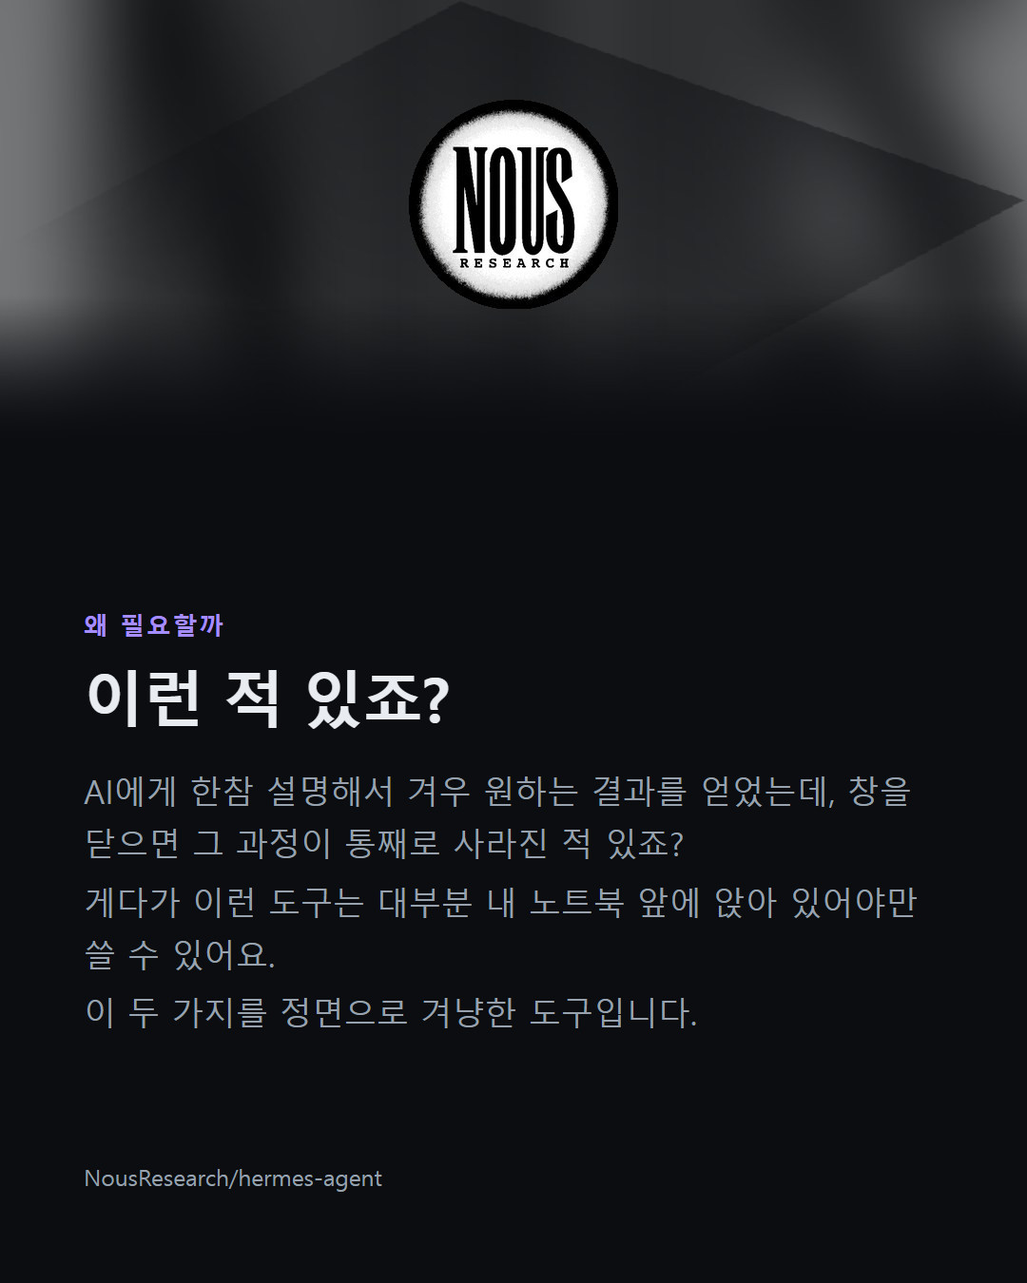
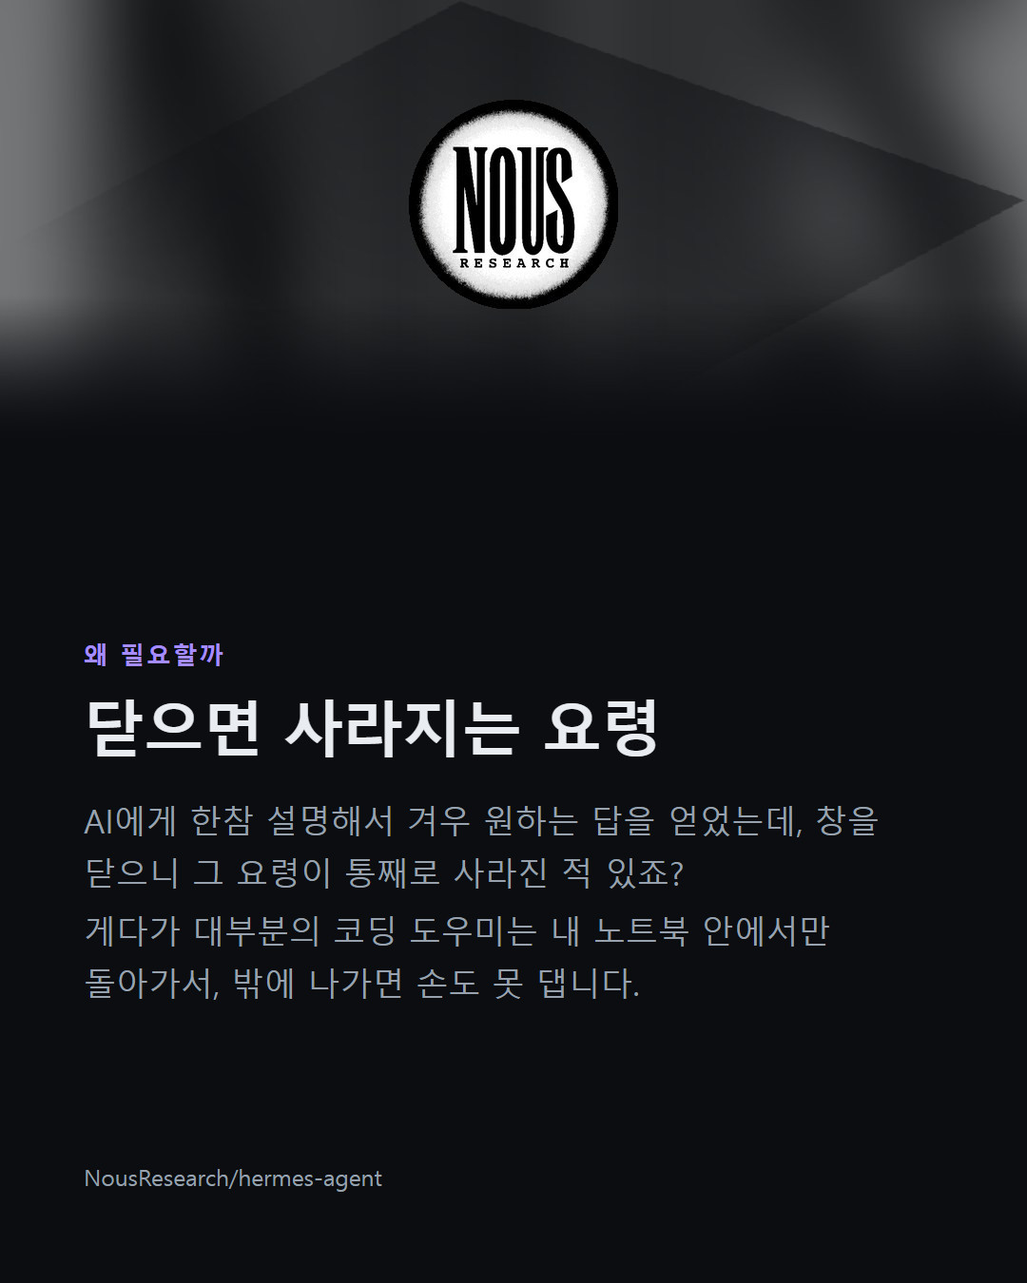
feat(design): 커버와 마무리를 간결한 구성으로 되돌림
본문 분량 하한(85자)을 전 카드에 적용하니 커버와 마무리까지 세 문장으로
불어나 원래의 간결함을 잃었다. 두 카드는 다른 규칙을 따라야 한다.

커버: 한 줄 훅, 70자 이내. 하한 면제. 별 개수는 배지가 이미 보여주므로
본문에 다시 쓰지 않게 했다. 이미지도 쓰지 않는다 — 제목과 배지가 시선을 잡는다.

마무리: 출처 → 라이선스 → 마무리 한마디. 이미지 없음.
**주소와 라이선스는 조사 데이터에서 렌더가 직접 채운다.** 주소는 한 글자만
틀려도 잘못된 정보인데 그걸 문장 생성에 맡길 이유가 없다. 모델이 쓰는 것은
마무리 한마디뿐이다.

OG 이미지는 마무리에서 what_is_it 으로 옮겼다. 레포 이름과 설명이 박힌
카드라 "이게 뭐냐"를 설명하는 자리에 더 맞는다.

NO_IMAGE 목록을 두 모듈이 각자 들고 있어 어긋날 수 있어, 일치를 테스트로
고정했다.

테스트 160개 통과.

Changed region(s): [[0.0611, 0.4667, 0.8861, 0.8089]]

diff --git a/agent/compose.py b/agent/compose.py
@@ -32,6 +32,12 @@ CAPTION_LIMIT = 2200
 MAX_JARGON_PER_CARD = 1
 MAX_JARGON_IN_CAPTION = 4
 
+# 커버와 마무리는 간결하게 간다. 커버는 훅이라 짧아야 훅이고,
+# 마무리는 주소·라이선스를 렌더가 데이터에서 자동으로 채우므로
+# 모델이 쓸 것은 마무리 한마디뿐이다.
+SHORT_ROLES = {"cover", "outro"}
+SHORT_BODY_MAX = 70
+
 SYSTEM_PROMPT = """\
 너는 인스타그램 카드뉴스의 원고를 쓴다.
 
@@ -84,7 +90,9 @@ SYSTEM_PROMPT = """\
 
 각 카드는 role 로 역할이 정해져 있다. 주어진 role 순서를 그대로 지켜라.
 
-- cover: 레포명과 한 줄 훅. 궁금하게 만들되 낚시하지 마라.
+- cover: 레포명과 **한 줄 훅**. 궁금하게 만들되 낚시하지 마라.
+  **여기만 짧게 쓴다 — 한 문장, 70자 이내.** 훅은 짧아야 훅이다.
+  별 개수는 카드가 배지로 따로 보여주니 본문에 또 쓰지 마라.
 - what_is_it: **"한마디로 뭐냐면"** — 이게 뭔지 딱 한 문장으로. 비유를 써도 좋다.
   독자가 이 카드에서 못 알아들으면 나머지는 안 읽는다. 가장 공들여라.
 - problem: 이게 없으면 뭐가 불편한지. "이런 적 있죠?" 처럼 공감으로 열어라.
@@ -96,7 +104,10 @@ SYSTEM_PROMPT = """\
   명령 두 개처럼 읽힌다. 길면 더 짧은 대표 명령을 골라라.
   body 에 이게 어디에 입력하는 건지 한마디 덧붙여라.
 - fit: 어떤 사람에게 맞고 어떤 사람에겐 아직 이른지. 단점을 숨기지 마라.
-- outro: 레포 주소와 라이선스, 그리고 행동 유도.
+- outro: **마무리 한마디만 쓴다 — 한 문장, 70자 이내.**
+  레포 주소·라이선스·언어는 카드가 조사 데이터에서 자동으로 채운다.
+  본문에 주소나 라이선스를 다시 쓰지 마라. 부담 없는 마무리면 충분하다
+  (예: "오늘은 구경만 해도 충분해요").
 
 ## 매체 제약을 절대 어기지 마라
 
@@ -244,6 +255,7 @@ def _build_prompt(
     max_code_chars: int,
     tone: str,
 ) -> str:
+    short_max = SHORT_BODY_MAX
     p = research.payload
     m = research.meta
     delta = f"+{m.delta_1d} (오늘)" if m.delta_1d is not None else "(미상)"
@@ -282,6 +294,7 @@ def _build_prompt(
 - title: {max_title}자 이하 (공백 포함)
 - body: **{min_body}~{max_body}자** (공백 포함). 2~3문장으로 채운다.
   한 문장으로 끝내지 마라 — 카드가 휑해 보이고 설명도 부족하다.
+  **단 cover 와 outro 는 예외다. 한 문장, {short_max}자 이내로 간결하게.**
 - code 는 quickstart 카드에만. {max_code_lines}줄 이하, 줄당 {max_code_chars}자 이하
   각 줄은 그 자체로 완전한 명령이어야 한다. 한 명령을 쪼개지 마라.
 - caption: {CAPTION_LIMIT}자 이하, 해시태그 미포함
@@ -414,11 +427,18 @@ def _validate(
             problems.append(
                 f"{where} title 이 {len(card.title)}자입니다 ({max_title}자 이하로 줄이세요): \"{card.title}\""
             )
-        if len(card.body) > max_body:
+        if expected_role in SHORT_ROLES:
+            # 간결해야 하는 카드. 하한은 적용하지 않는다.
+            if len(card.body) > SHORT_BODY_MAX:
+                problems.append(
+                    f"{where} body 가 {len(card.body)}자입니다. 이 카드는 간결해야 하니 "
+                    f"한 문장, {SHORT_BODY_MAX}자 이내로 줄이세요."
+                )
+        elif len(card.body) > max_body:
             problems.append(
                 f"{where} body 가 {len(card.body)}자입니다 ({max_body}자 이하로 줄이세요)."
             )
-        elif min_body and expected_role != "cover" and 0 < len(card.body) < min_body:
+        elif min_body and 0 < len(card.body) < min_body:
             problems.append(
                 f"{where} body 가 {len(card.body)}자로 너무 짧습니다 "
                 f"({min_body}자 이상, 2~3문장). 한 문장으로 끝내지 마세요."

diff --git a/agent/render.py b/agent/render.py
@@ -115,6 +115,7 @@ def run(config: Config, run_date: str, dry_run: bool = False) -> dict[str, Any]:
     font_uri = _font_data_uri()
 
     star_badge = _star_badge(deck)
+    outro_facts = _outro_facts(deck)
     _attach_images(cards, post_dir)
     cards_dir = post_dir / "cards"
     warnings: list[str] = []
@@ -143,6 +144,7 @@ def run(config: Config, run_date: str, dry_run: bool = False) -> dict[str, Any]:
                     height=height,
                     total=len(cards),
                     star_badge=star_badge,
+                    outro=outro_facts,
                 )
                 if overflow_by > 0:
                     msg = (
@@ -201,6 +203,7 @@ def _render_card(
     height: int,
     total: int,
     star_badge: str,
+    outro: dict[str, str],
 ) -> tuple[bytes, float, int]:
     """오버플로가 없어질 때까지 축소하며 렌더한다. (PNG, 배율, 남은초과px)"""
     last_over = 0
@@ -217,6 +220,7 @@ def _render_card(
             eyebrow=eyebrow_for(card.role, card.title),
             body_sentences=split_sentences(card.body),
             star_badge=star_badge,
+            outro=outro,
         )
         page.set_content(html, wait_until="load")
         page.evaluate("() => document.fonts.ready")
@@ -265,6 +269,9 @@ def _tokens_from_figma() -> bool:
     return (paths.ROOT / "design" / "tokens.json").exists()
 
 
+# imagery.NO_IMAGE 와 같은 값. 순환 임포트를 피해 여기에 둔다.
+NO_IMAGE_ROLES = {"cover", "outro"}
+
 IMAGE_SUFFIXES = (".jpg", ".jpeg", ".png", ".webp")
 IMAGE_MIME = {".jpg": "image/jpeg", ".jpeg": "image/jpeg", ".png": "image/png", ".webp": "image/webp"}
 
@@ -279,8 +286,8 @@ def _attach_images(cards: list[Card], post_dir: Path) -> None:
     """
     images_dir = post_dir / "images"
     for card in cards:
-        if card.role == "cover":
-            card.image = None  # 커버는 이미지 없이 간다 (디자인 결정)
+        if card.role in NO_IMAGE_ROLES:
+            card.image = None  # 간결해야 하는 카드는 이미지를 쓰지 않는다
             continue
         for suffix in IMAGE_SUFFIXES:
             candidate = images_dir / f"{card.index:02d}{suffix}"
@@ -318,6 +325,22 @@ def _load_deck(run_date: str) -> tuple[CardDeckFile, Path]:
         )
     path = matches[0]
     return CardDeckFile.model_validate(paths.read_json(path)), path.parent
+
+
+def _outro_facts(deck: CardDeckFile) -> dict[str, str]:
+    """마무리 카드에 넣을 출처·라이선스.
+
+    모델에게 시키지 않고 조사 데이터에서 직접 채운다. 주소나 라이선스는
+    한 글자만 틀려도 잘못된 정보이고, 그건 문장 생성에 맡길 일이 아니다.
+    """
+    research = _find_research(deck) or {}
+    meta = research.get("meta", {})
+    url = (meta.get("html_url") or "").replace("https://", "").replace("http://", "")
+    parts = [p for p in (meta.get("license"), meta.get("language")) if p]
+    return {
+        "url": url or f"github.com/{deck.repo}",
+        "meta": " · ".join(parts),
+    }
 
 
 def _star_badge(deck: CardDeckFile) -> str:

diff --git a/tests/test_render.py b/tests/test_render.py
@@ -236,3 +236,59 @@ class TestSentenceSplitting:
     def test_trailing_sentence_without_period_survives(self):
         out = render_mod.split_sentences("첫 문장입니다. 마침표 없는 끝")
         assert out == ["첫 문장입니다.", "마침표 없는 끝"]
+
+
+class TestConciseCards:
+    """커버와 마무리는 간결해야 한다. 나머지 카드와 다른 규칙을 따른다."""
+
+    def test_cover_and_outro_get_no_image(self, tmp_path):
+        images = tmp_path / "images"
+        images.mkdir()
+        for name in ("01.png", "10.png", "04.png"):
+            Image.new("RGB", (8, 8)).save(images / name)
+
+        cards = [
+            Card(index=1, role="cover", title="레포"),
+            Card(index=4, role="feature", title="기능"),
+            Card(index=10, role="outro", title="정리하면"),
+        ]
+        render_mod._attach_images(cards, tmp_path)
+        assert cards[0].image is None
+        assert cards[1].image is not None   # 일반 카드는 붙는다
+        assert cards[2].image is None
+
+    def test_no_image_roles_match_imagery(self):
+        """두 모듈이 각자 목록을 들면 언젠가 어긋난다."""
+        from agent import imagery
+        assert render_mod.NO_IMAGE_ROLES == imagery.NO_IMAGE
+
+
+class TestOutroFacts:
+    """주소·라이선스는 한 글자만 틀려도 잘못된 정보다. 문장 생성에 맡기지 않는다."""
+
+    def _deck(self):
+        return _deck([Card(index=1, role="outro", title="정리하면")])
+
+    def test_strips_scheme_from_url(self, tmp_path, monkeypatch):
+        monkeypatch.setattr(
+            render_mod, "_find_research",
+            lambda d: {"meta": {"html_url": "https://github.com/acme/widget",
+                                "license": "MIT", "language": "Python"}},
+        )
+        facts = render_mod._outro_facts(self._deck())
+        assert facts["url"] == "github.com/acme/widget"
+        assert facts["meta"] == "MIT · Python"
+
+    def test_falls_back_to_repo_when_research_missing(self, monkeypatch):
+        monkeypatch.setattr(render_mod, "_find_research", lambda d: None)
+        facts = render_mod._outro_facts(self._deck())
+        assert facts["url"] == "github.com/acme/widget"
+        assert facts["meta"] == ""
+
+    def test_omits_missing_license_or_language(self, monkeypatch):
+        monkeypatch.setattr(
+            render_mod, "_find_research",
+            lambda d: {"meta": {"html_url": "https://github.com/acme/widget",
+                                "license": None, "language": "Rust"}},
+        )
+        assert render_mod._outro_facts(self._deck())["meta"] == "Rust"

diff --git a/tests/test_imagery.py b/tests/test_imagery.py
@@ -19,8 +19,8 @@ from agent import imagery  # noqa: E402
 
 def _deck() -> CardDeckFile:
     roles = [
-        "cover", "problem", "why_now", "feature", "feature",
-        "feature", "architecture", "quickstart", "fit", "outro",
+        "cover", "what_is_it", "problem", "why_now", "feature",
+        "feature", "feature", "quickstart", "fit", "outro",
     ]
     return CardDeckFile(
         repo="acme/widget",
@@ -92,25 +92,32 @@ class TestComposition:
 
 
 class TestRoleMapping:
-    def test_cover_gets_no_image(self, fake_sources, tmp_path):
+    def test_concise_cards_get_no_image(self, fake_sources, tmp_path):
+        """커버와 마무리는 간결해야 하는 카드다."""
         result = imagery.run(_deck(), tmp_path)
-        assert 1 not in [i["index"] for i in result["images"]]
+        indexes = [i["index"] for i in result["images"]]
+        assert 1 not in indexes and 10 not in indexes
         assert not (tmp_path / "images" / "01.jpg").exists()
+        assert not (tmp_path / "images" / "10.jpg").exists()
 
-    def test_outro_uses_the_og_card(self, fake_sources, tmp_path):
+    def test_what_is_it_uses_the_og_card(self, fake_sources, tmp_path):
+        """레포 이름·설명이 박힌 카드라 '이게 뭐냐'에 어울린다."""
         result = imagery.run(_deck(), tmp_path)
-        outro = next(i for i in result["images"] if i["role"] == "outro")
-        assert outro["source"] == "og"
+        card = next(i for i in result["images"] if i["role"] == "what_is_it")
+        assert card["source"] == "og"
 
     def test_other_roles_use_the_avatar(self, fake_sources, tmp_path):
         result = imagery.run(_deck(), tmp_path)
-        others = [i for i in result["images"] if i["role"] not in ("outro", "cover")]
+        others = [
+            i for i in result["images"]
+            if i["role"] not in ("what_is_it", "cover", "outro")
+        ]
         assert others and all(i["source"] == "avatar" for i in others)
 
-    def test_writes_one_file_per_card_except_cover(self, fake_sources, tmp_path):
+    def test_writes_one_file_per_card_except_concise_ones(self, fake_sources, tmp_path):
         imagery.run(_deck(), tmp_path)
         written = sorted(p.name for p in (tmp_path / "images").glob("*.jpg"))
-        assert written == [f"{i:02d}.jpg" for i in range(2, 11)]
+        assert written == [f"{i:02d}.jpg" for i in range(2, 10)]
 
     def test_dry_run_writes_nothing(self, fake_sources, tmp_path):
         result = imagery.run(_deck(), tmp_path, dry_run=True)

diff --git a/agent/imagery.py b/agent/imagery.py
@@ -7,11 +7,13 @@
 - OG 이미지 (`opengraph.githubassets.com`) — GitHub 이 임베드용으로 만들어 제공
 - 소유자 아바타 (`github.com/{owner}.png`)
 
-같은 OG 이미지를 8장에 반복하면 캐러셀이 단조로워지므로 역할별로 다르게 쓴다:
-- outro : OG 이미지 그대로 (레포 카드 자체가 마무리에 어울린다)
-- 그 외 : 아바타를 크게 흐린 색면 + 선명한 아바타를 얹은 조합.
-          카드 번호에 따라 그라디언트 방향을 바꿔 같은 그림이 반복되지 않게 한다.
-- cover : 이미지를 쓰지 않는다 (제목과 배지가 이미 시선을 잡는다)
+같은 OG 이미지를 여러 장에 반복하면 캐러셀이 단조로워지므로 역할별로 다르게 쓴다:
+- what_is_it : OG 이미지 (레포 이름·설명이 박힌 카드라 "이게 뭐냐"에 어울린다)
+- 그 외      : 아바타를 크게 흐린 색면 + 선명한 아바타를 얹은 조합.
+               카드 번호에 따라 음영 방향을 바꿔 같은 그림이 반복되지 않게 한다.
+- cover, outro : 이미지를 쓰지 않는다. 둘은 간결해야 하는 카드다 —
+                 커버는 제목과 배지가 시선을 잡고, 마무리는 출처·라이선스·
+                 한마디만 남긴다.
 """
 
 from __future__ import annotations
@@ -35,10 +37,10 @@ USER_AGENT = "gh-cardnews-agent (+https://github.com/)"
 OG_URL = "https://opengraph.githubassets.com/1/{repo}"
 AVATAR_URL = "https://github.com/{owner}.png?size=460"
 
-# 이미지를 쓰지 않는 역할
-NO_IMAGE = {"cover"}
+# 이미지를 쓰지 않는 역할 — 간결해야 하는 카드들
+NO_IMAGE = {"cover", "outro"}
 # OG 이미지를 쓰는 역할
-OG_ROLES = {"outro"}
+OG_ROLES = {"what_is_it"}
 
 
 class ImageryError(RuntimeError):

diff --git a/SPEC.md b/SPEC.md
@@ -1,6 +1,6 @@
 # GitHub 핫 레포 → 인스타그램 카드뉴스 자동화 에이전트 기능명세서
 
-- 문서 버전: v2.1
+- 문서 버전: v2.2
 - 작성일: 2026-08-23
 - 상태: M1·M2·M3 구현 완료, M4·M5 미착수
 - 변경: v1.1 — 카드 디자인 원본을 피그마로 두는 `design-sync` 흐름 추가 (7.1, 7.2)
@@ -14,6 +14,7 @@
 - 변경: v1.9 — API 자동 발행 취소, 수동 발행으로 전환 (M5 폐기, Pages·토큰 갱신·워크플로 B/C 제거)
 - 변경: v2.0 — 타겟 독자를 입문자로 변경 (톤 재정의, architecture 카드 제거·what_is_it 추가, 난이도 게이트 신설)
 - 변경: v2.1 — 본문을 문장 단위로 줄바꿈, 분량 하한(85자·2~3문장) 도입
+- 변경: v2.2 — 커버·마무리를 간결한 구성으로 복귀 (이미지 제외, 70자 상한, 출처·라이선스 자동 채움)
 
 ---
 
@@ -419,7 +420,7 @@ options = ClaudeAgentOptions(
 
 | # | 역할 | 담기는 것 | 출처 필드 |
 |---|---|---|---|
-| 1 | 커버 | 레포명, 한 줄 훅, ⭐ 증가량 | `one_liner`, `meta` |
+| 1 | 커버 | 레포명, **한 줄 훅(70자 이내)**, ⭐ 증가량. 이미지 없음 | `one_liner`, `meta` |
 | 2 | **한마디로 뭐냐면** | 이게 뭔지 딱 한 문장. 비유 허용 | `one_liner` |
 | 3 | 문제 정의 | "이런 적 있죠?" 공감으로 열기 | `problem` |
 | 4 | 왜 지금 뜨나 | 급증 수치 + 계기, 감이 오게 | `why_now` |
@@ -428,7 +429,7 @@ options = ClaudeAgentOptions(
 | 7 | 이런 걸 해요 ③ | | `key_features[2]` |
 | 8 | 직접 써보려면 | 설치·실행 커맨드 + 어디에 입력하는지 | `quickstart` |
 | 9 | 나한테 맞을까 | 적합·부적합 케이스 | `differentiators`, `limitations` |
-| 10 | 마무리 | 레포 URL, 라이선스, CTA | `meta` |
+| 10 | 마무리 | **출처 → 라이선스 → 마무리 한마디.** 이미지 없음 | `meta` (자동) |
 
 **`architecture` 카드는 뺐다.** 입문자에게 "어떻게 동작하나"를 90자로 설명하면
 정확하거나 쉽거나 둘 중 하나를 반드시 포기하게 된다. 그 자리에 **"한마디로 뭐냐면"**
@@ -467,6 +468,7 @@ options = ClaudeAgentOptions(
 |---|---|---|
 | 카드 제목 | 24자 | 1080px 폭에서 2줄 이내 |
 | 카드 본문 | **85~150자** | 2~3문장. 하한이 없으면 한 문장으로 끝나 카드가 휑해진다 |
+| 커버·마무리 본문 | **70자 이내** | 이 둘은 간결해야 한다. 하한을 적용하지 않는다 |
 | 코드 블록(카드 8) | 3줄, 줄당 52자 | 27px 모노스페이스 실측. 42자는 과하게 좁아 모델이 URL 을 잘랐다 |
 | 캡션 전체 | 2,200자 | 인스타그램 캡션 제한 |
 | 해시태그 | 30개 | 인스타그램 제한 |
@@ -608,13 +610,15 @@ python -m agent design-sync
 
 - **레포의 README 스크린샷·로고를 가져다 쓰지 않는다.** 저작권이 레포 소유자에게 있고, 라이선스가 코드만 다루는 경우가 많아 이미지 재배포는 별개 문제다.
 - 카드 상단 이미지는 **GitHub 이 제공하는 자산만** 쓴다(`illustrate` 단계).
-  - `opengraph.githubassets.com` OG 이미지 — GitHub 이 임베드용으로 만들어 제공한다. `outro` 카드에 쓴다.
+  - `opengraph.githubassets.com` OG 이미지 — GitHub 이 임베드용으로 만들어 제공한다. `what_is_it` 카드에 쓴다.
   - `github.com/{owner}.png` 소유자 아바타 — 나머지 카드에 쓴다.
   - 둘 다 밝기를 눌러 다크 카드에 녹인다. OG 는 흰 배경이라 그대로 얹으면 위아래가 다른 디자인처럼 따로 논다.
   - **카드 번호마다 방향이 도는 음영을 얹어 변주를 준다.** 잘라내는 위치만 옮기는 방식은 흑백 로고 아바타에서 아무 효과가 없었다.
 - 코드 스니펫은 설치 커맨드 수준의 짧은 인용으로 제한하고, 카드 10에 라이선스를 표기한다.
 - **페이지 인디케이터는 쓰지 않는다.** 인스타그램이 캐러셀 위치를 자체 UI 로 이미 보여주므로 중복이고, 카드 하단 공간만 잡아먹는다.
 - **카드 상단 470px 은 이미지 영역이다.** 커버는 예외로 이미지를 쓰지 않는다(제목과 배지가 이미 시선을 잡는다). 이미지 아래는 배경색 그라디언트로 녹여 본문과 잇는다.
+- **커버와 마무리는 이미지를 쓰지 않는다.** 커버는 제목과 배지가 이미 시선을 잡고, 마무리는 출처·라이선스·한마디만 남는 카드다. 둘 다 여백이 정보다.
+- **마무리 카드의 출처·라이선스는 조사 데이터에서 자동으로 채운다.** 주소는 한 글자만 틀려도 잘못된 정보이고, 그건 문장 생성에 맡길 일이 아니다. 모델은 마무리 한마디만 쓴다.
 - **이미지가 없으면 그 영역을 아예 그리지 않는다.** 피그마 템플릿의 "여기에 이미지가 삽입됩니다" 점선 박스는 어디에 무엇이 들어가는지 알려주는 설명이지 렌더 결과물이 아니다. 자리표시자가 그대로 발행되면 안 된다.
 
 ### 7.6 오버플로 처리

diff --git a/posts/2026-08-23-nousresearch__hermes-agent/caption.md b/posts/2026-08-23-nousresearch__hermes-agent/caption.md
@@ -1,14 +1,15 @@
-터미널에서도 메신저에서도 같은 AI 비서를 부르는 도구, hermes-agent를 소개합니다.
+쓸수록 요령이 쌓이는 AI 비서, hermes-agent 🧠
 
-가장 큰 특징은 '배운 걸 기억한다'는 점이에요. 일을 하면서 얻은 요령을 스스로 적어두고, 다음에 비슷한 일이 오면 다시 꺼내 씁니다. 지난 대화를 찾아보는 기능도 있어요. 실제로 기억을 관리하는 코드가 따로 큼직하게 들어가 있습니다(다만 그 성능이 얼마나 좋은지까지는 확인하지 못했어요).
+한참 설명해서 겨우 원하는 답을 얻었는데 창을 닫으면 다 사라지는 경험, 다들 있으시죠. Hermes는 일하면서 익힌 방법을 스스로 저장해뒀다가 다음에 다시 꺼내 쓰고, 지난 대화도 검색합니다. 그리고 노트북 터미널에만 갇혀 있지 않아요 — 메신저 쪽으로도 연결되는 별도 통로가 있어서 밖에서도 같은 흐름을 이어갈 수 있습니다.
 
-두 번째는 '노트북 앞이 전제가 아니다'는 점. 메신저 연결을 맡는 부분이 별도 프로그램으로 떠 있어서 텔레그램 같은 앱에서도 대화를 이어갈 수 있고, 원하면 클라우드에서 대신 돌릴 수도 있습니다. 쓰는 AI 모델도 여러 회사 것 중에 골라 갈아 끼울 수 있어요.
+여러 회사의 AI 모델 중 원하는 걸 골라 붙일 수 있고, 기본 설치는 가볍게 두고 실제로 쓰는 것만 나중에 받는 구조라 부담이 적어요. 남이 만든 부품(라이브러리)은 버전까지 고정해서 쓰고, 갓 올라온 새 버전은 2주간 자동으로 걸러냅니다. 예전에 어떤 부품에 악성코드가 섞여 퍼진 사건이 있었거든요.
 
-세 번째는 보안 정책. 가져다 쓰는 부품(라이브러리)의 버전을 딱 하나로 고정해두고, 갓 올라온 배포는 2주간 기본으로 막습니다. 올해 5월 악성 코드가 섞인 배포가 퍼진 사건 이후 정한 규칙이라고 파일에 이유까지 적어놨어요.
+다만 개발 속도가 정말 빠릅니다. 하루 남짓한 사이 커밋 700건 넘게 쌓인 업데이트도 있을 정도라, 그만큼 어제 되던 게 오늘 깨지는 일도 보고되고 있어요. 업데이트 후 실행이 안 되거나 일부 화면이 비는 사례가 이슈로 올라와 있고, 무엇이 바뀌었는지 정리된 안내도 아직 밀려 있는 상태입니다. 가볍게 써볼 도구라기보다는 이것저것 잔뜩 들어간 큰 플랫폼에 가깝다는 점도 참고하세요.
 
-단점도 있습니다. 개발 속도가 워낙 빨라서(최근 배포판 하나에 하루 남짓 동안 수정 746건) 업데이트 직후 뭔가 깨졌다는 제보가 여럿 올라와 있어요. 어떤 게 바뀌었는지 정리한 변경 안내도 아직 미뤄진 상태입니다. 안정성이 최우선이라면 조금 더 지켜보는 게 좋아요.
+시작은 공식 사이트의 설치 한 줄을 터미널에 붙여넣는 것부터. 그다음 hermes 실행 → 모델 선택 → 점검 순서면 됩니다.
 
-github.com/NousResearch/hermes-agent
-별 23만 개 (오늘 +443) · 파이썬 · MIT 라이선스(가져다 쓰고 고쳐도 되는 조건)
+🔗 github.com/NousResearch/hermes-agent
+⭐ 별 23만 개 (오늘만 +443)
+📄 MIT 라이선스 (거의 자유롭게 가져다 쓸 수 있는 조건) / Python
 
-#개발자 #깃허브 #오픈소스 #AI #인공지능 #코딩 #파이썬 #python #개발공부 #AI에이전트 #터미널 #CLI #프로그래밍 #코딩입문 #개발자성장 #github #MIT라이선스 #AI도구 #자동화 #NousResearch
+#개발자 #코딩 #깃허브 #오픈소스 #AI #인공지능 #AI에이전트 #파이썬 #python #터미널 #CLI #코딩입문 #개발공부 #비전공자개발 #AI도구 #생산성 #자동화 #hermesagent #NousResearch #MIT라이선스 #개발자툴 #코딩공부 #AI활용 #깃허브추천 #개발일상
